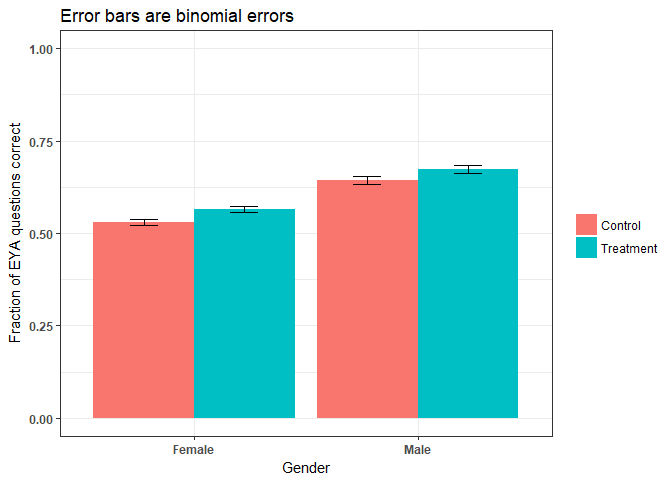
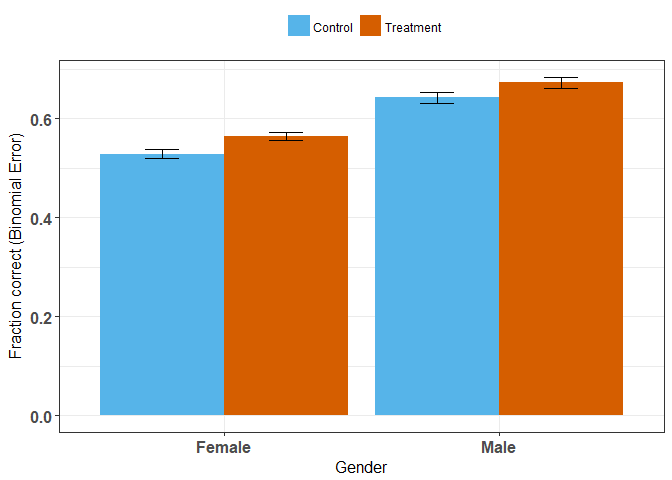
Updated graphs for color-blind friendliness

diff --git a/A04-P100_P101_all_analysis.html b/A04-P100_P101_all_analysis.html
@@ -311,7 +311,7 @@ $(document).ready(function () {
 </div>
 
 
-<p><em>updated by Joss Ives 2018 June 12, 17:33:21</em></p>
+<p><em>updated by Joss Ives 2018 June 13, 14:20:07</em></p>
 <div id="overview" class="section level1">
 <h1>Overview</h1>
 <p>This report discusses the initial analysis of the W2017-T1 data from the Physics 100 course. In this course, 4 questions were used to look at the effect of asking students to explain their answer after a multiple-choice question. This used a crossover protocol, where there were 2 versions of the test and each version had 2 explain your answer questions that the other group did not.</p>
@@ -417,17 +417,17 @@ $(document).ready(function () {
 ## 26 0.05047082    0.025633312
 ## 27 0.04620709    0.023469806
 ## 28 0.04963806    0.025210368</code></pre>
[2 lines of base64/hex data omitted]
 </div>
 <div id="performance-on-the-eya-questions-by-gender." class="section level3">
 <h3>Performance on the EYA questions by gender.</h3>
[2 lines of base64/hex data omitted]
 </div>
 <div id="effect-of-intervention-by-exam-performance-group-tertile" class="section level3">
 <h3>Effect of intervention by exam performance group (tertile)</h3>
 <p>Since we know that females scored lower on the exams than males, perhaps there will be a difference in the effectiveness of the intervention if we look at low, medium and high performers from exams. The graph shows the largest effect on H, then L, then M</p>
 <p>This will be investigated further in A04t (“t” for tertile)</p>
[2 lines of base64/hex data omitted]
 </div>
 </div>
 <div id="quick-analyses-of-effects-sizes" class="section level1">

diff --git a/A04-P100_P101_all_analysis.md b/A04-P100_P101_all_analysis.md
@@ -11,7 +11,7 @@ output:
 
 
 
-*updated by Joss Ives 2018 June 12, 17:33:21*
+*updated by Joss Ives 2018 June 13, 14:20:07*
 
 # Overview
 This report discusses the initial analysis of the W2017-T1 data from the Physics 100 course. In this course, 4 questions were used to look at the effect of asking students to explain their answer after a multiple-choice question. This used a crossover protocol, where there were 2 versions of the test and each version had 2 explain your answer questions that the other group did not. 
